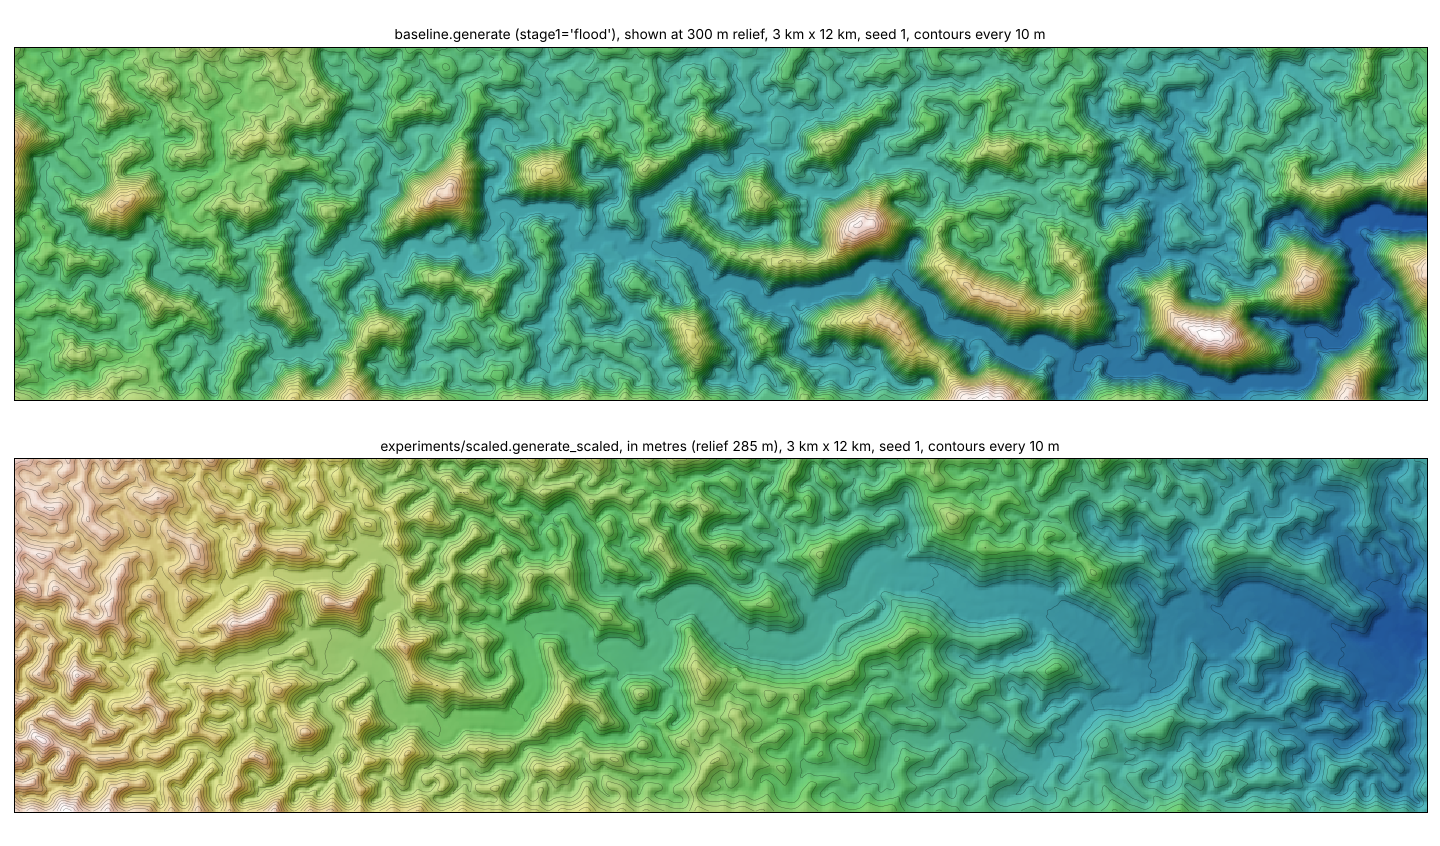
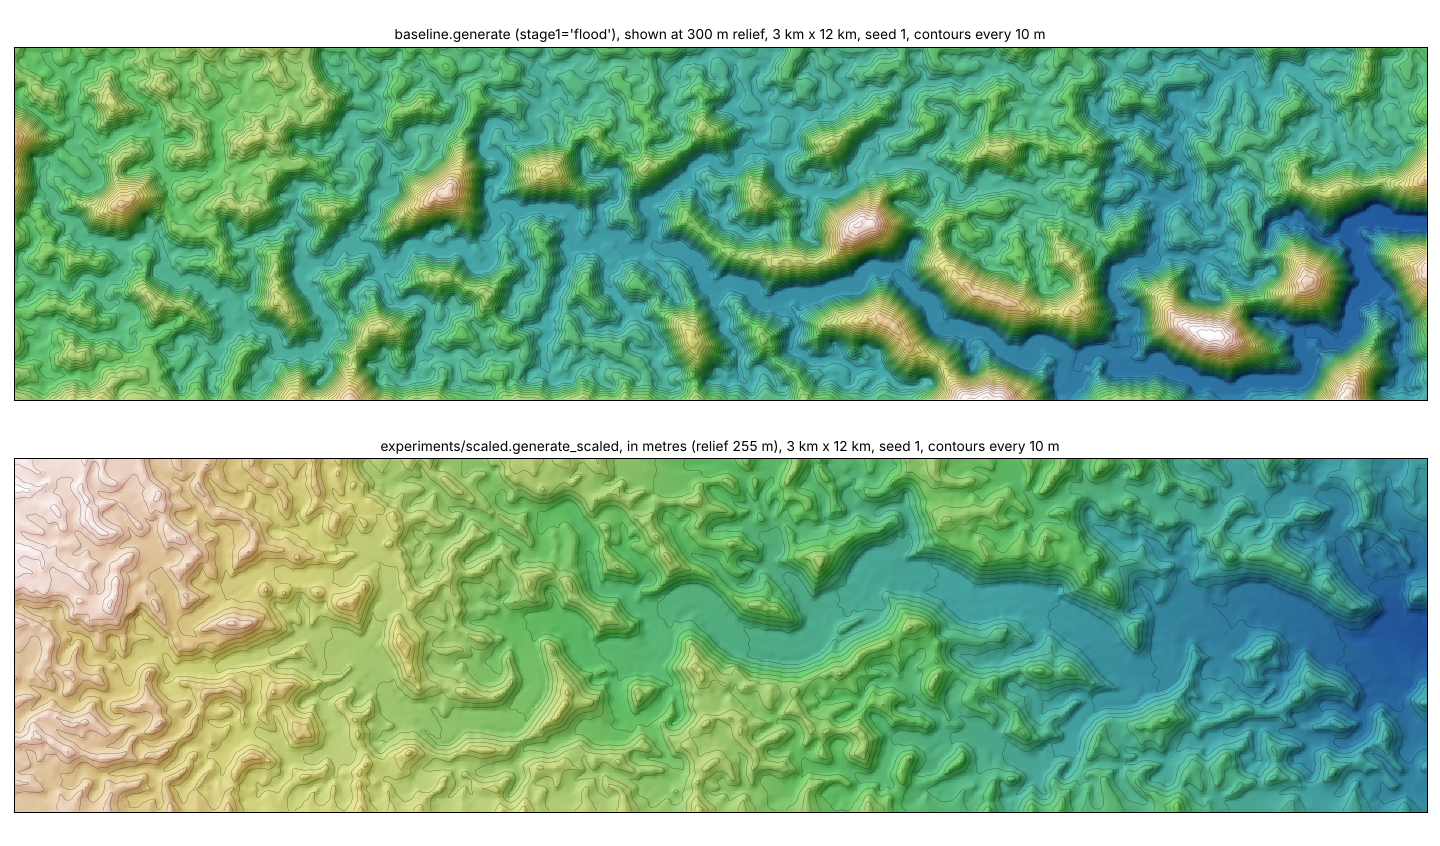
scaled: two_bones hillslopes by default; envelope left as an option
The envelope's contours are too many and angular.  Comparison figure
redrawn with the new default.

Claude-Session: https://claude.ai/code/session_0199x6mkq6CTvQ2yyjWnYpWs

Changed region(s): [[0.0, 0.5225, 1.0, 0.9835], [0.9688, 0.6761, 1.0, 0.7069]]

diff --git a/experiments/scaled.py b/experiments/scaled.py
@@ -258,7 +258,7 @@ def solve_m(net, roots, labels=None, ks=KS, theta=THETA, s_max=S_MAX, w1=W1,
 def generate_scaled(seed, shape=(128, 128), outlets=None, n_roots=None,
                     regional=2.0, ell=5.0, floor_px=4.0, finish=True,
                     ks=KS, theta=THETA, s_max=S_MAX, w1=W1, f=F_POISSON,
-                    z0=Z0, finish_kw=None, hill="envelope", sc=0.3, sc_var=0.3,
+                    z0=Z0, finish_kw=None, hill="two_bones", sc=0.3, sc_var=0.3,
                     crest_sigma=1.5, straighten=2.0, s0=1.0, floor_close=2,
                     stage1="flood", trend=None, stream_var=0.4, theta_var=0.1,
                     lith_var=0.3):

diff --git a/docs/HANDOFF.md b/docs/HANDOFF.md
@@ -49,16 +49,20 @@ python -m experiments.baseline --check
     - 大きな川の谷底の中にある支流は、その大きな川の勾配で流れます。
     - 谷底の幅：60 m·(√A − √0.1)。
     - 谷底の高さ：谷底の上を通る距離での包絡（2%）。
-    - 斜面：限界勾配 0.3 の包絡（`envelope`。Dijkstra を使います）。`hill="poisson"` と `"two_bones"` も選べます。
+    - 斜面：既定は `two_bones`（尾根も固定する方式）です。`hill="poisson"` と `"envelope"`（限界勾配 0.3 の包絡。Dijkstra を使います）も選べます。
+    - `envelope` は、等高線が多く角ばるので、既定から外しました（ユーザーの評価）。
   - 第3段：`finish_micro` に、高さの尺度 60 m を固定して渡します。
 - **結果：** `python -m tools.scaled_compare`（シード1〜3）。図は `docs/images/scaled_vs_old_3x12km_s1.png`。
   - 3 km × 12 km は改善しました。
     - 大きな川の曲がり：1.44 → 1.19
     - 下流と上流の凹凸の比：1.09 → 0.52
     - 本流の谷底：7.6 → 11.1 px
-  - 128×128 は悪くなりました。どこも同じ大きさの谷で埋まり、大きな骨格が見えません。
-  - 尾根の階層（hier 0.24〜0.31）と孤立したこぶの数は、改善していません。
-- **次の課題：** 小さな谷ほど浅くすること。いまの包絡は、どの川からも同じ勾配で斜面を上げるので、源流の谷も本流の谷と同じ深さになります。これが、128×128 が悪くなったことと、階層が出ないことの両方の原因だと考えています。
+  - 128×128：`envelope` では、どこも同じ大きさの谷で埋まりました。`two_bones` にすると、大きな谷と尾根の骨格が出ます。ただし起伏は約60 m で、古い版（100点）と同じ印象かどうかは、まだ確かめていません。
+  - 尾根の階層（hier）と孤立したこぶの数は、改善していません（3×12 km で 0.26 と 1.24。古い版は 0.26 と 0.96）。`poisson` にすると、こぶは 0.41 に減ります。
+- **次の課題：**
+  - 尾根の階層を、数字で分かるほど強くすること。
+  - 高地の「虫食い」模様（`gen_flood` の流路のくねり）。
+  - 128×128 で、古い版と見比べること。
 - **見つけた不具合：** `flood.noise()` は平均を引きません（大きな周期の成分が一定のずれとして残ります）。値の大きさに意味がある使い方をするときは、平均を引いて標準化してください。
 
 ## いまの状態
